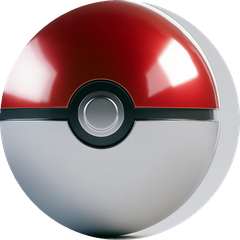
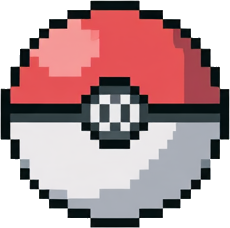
feat: Sieger-Screen (10 Pokémon tanzen aus Ball -> Solitär-Feuerwerk -> Pokal + Neues-Spiel-Button); neuer Pokéball- + Pokal-Sprite

diff --git a/js/win.js b/js/win.js
@@ -1,0 +1,168 @@
+import { VIRTUAL_W } from "./config.js";
+import { getImg, getSprite } from "./sprites.js";
+import { POKEMON } from "./data.js";
+
+const S = VIRTUAL_W;
+// Zeitachse (Sekunden)
+const T_POP = 0.6;        // Ball wächst/wackelt in der Mitte
+const T_DANCE_END = 3.4;  // 10 Pokémon kommen raus + tanzen
+const T_PARTY_END = 7.6;  // Feuerwerk rastet aus (Solitär-Kaskade)
+const CX = S / 2, CY = 0.42 * S, RING = 0.30 * S;
+const BTN = { x: S / 2 - 0.16 * S, y: 0.74 * S, w: 0.32 * S, h: 0.13 * S };
+
+export function makeWinScreen({ ctx, audio, onNewGame }) {
+  let t = 0, spawnAcc = 0, soundAcc = 0, popped = false;
+  let particles = [], confetti = [];
+  let partyStarted = false, done = false;
+
+  function start() {
+    t = 0; spawnAcc = 0; soundAcc = 0; popped = false;
+    particles = []; confetti = []; partyStarted = false; done = false;
+    audio.play("caught");
+    for (let i = 0; i < 60; i++) confetti.push(newConfetti());
+  }
+  function newConfetti() {
+    return { x: Math.random() * S, y: Math.random() * -S, vy: 120 + Math.random() * 200,
+             vx: (Math.random() - 0.5) * 60, hue: Math.floor(Math.random() * 360), r: 5 + Math.random() * 6 };
+  }
+  function burst(x, y, n, up) {
+    for (let i = 0; i < n; i++) {
+      const a = up ? (-Math.PI / 2 + (Math.random() - 0.5) * 1.8) : (Math.random() * Math.PI * 2);
+      const sp = 220 + Math.random() * 560;
+      particles.push({ x, y, vx: Math.cos(a) * sp, vy: Math.sin(a) * sp,
+        hue: Math.floor(Math.random() * 360), r: 5 + Math.random() * 8, life: 1 });
+    }
+  }
+
+  function phase() {
+    if (done) return "trophy";
+    if (t < T_POP) return "pop";
+    if (t < T_DANCE_END) return "dance";
+    if (t < T_PARTY_END) return "party";
+    return "trophy";
+  }
+
+  function update(dt) {
+    t += dt;
+    const ph = phase();
+    if (ph === "pop" && !popped && t > T_POP * 0.5) { popped = true; audio.play("throw"); }
+    if (ph === "dance") {
+      for (const c of confetti) {
+        c.x += c.vx * dt; c.y += c.vy * dt;
+        if (c.y > S) Object.assign(c, newConfetti(), { y: -10 });
+      }
+    }
+    if (ph === "party") {
+      spawnAcc += dt; soundAcc += dt;
+      while (spawnAcc > 0.10) {
+        spawnAcc -= 0.10;
+        burst(0.12 * S + Math.random() * 0.76 * S, S * 0.98, 12, true);
+        if (Math.random() < 0.7) burst(Math.random() * S, (0.2 + Math.random() * 0.5) * S, 10, false);
+      }
+      if (soundAcc > 0.45) { soundAcc = 0; audio.play("throw"); }
+      for (const p of particles) {
+        p.x += p.vx * dt; p.y += p.vy * dt; p.vy += 1000 * dt;
+        if (p.y > S) { p.y = S; p.vy *= -0.6; p.vx *= 0.72; }
+        p.life -= dt * 0.14;
+      }
+      particles = particles.filter(p => p.life > 0 && p.x > -30 && p.x < S + 30);
+    }
+  }
+
+  function ringRadius() {
+    // Pokémon fliegen aus dem Ball: Radius wächst kurz nach dem Pop
+    const k = Math.max(0, Math.min(1, (t - T_POP) / 0.5));
+    return RING * k;
+  }
+
+  function drawPokemonRing() {
+    const R = ringRadius();
+    for (let i = 0; i < POKEMON.length; i++) {
+      const ang = i / POKEMON.length * Math.PI * 2 + t * 0.5;
+      const x = CX + Math.cos(ang) * R;
+      const y = CY + Math.sin(ang) * R * 0.8;
+      const hop = -Math.abs(Math.sin(t * 5 + i)) * 0.035 * S;
+      const spr = getSprite(POKEMON[i].id);
+      const h = 0.13 * S, ar = spr.width && spr.height ? spr.width / spr.height : 1;
+      ctx.save();
+      ctx.translate(x, y + hop);
+      ctx.rotate(Math.sin(t * 4 + i) * 0.12);
+      ctx.drawImage(spr, -h * ar / 2, -h, h * ar, h);
+      ctx.restore();
+    }
+  }
+
+  function drawRestart(cx, cy, r, lw) {
+    ctx.strokeStyle = "#fff"; ctx.lineWidth = lw; ctx.lineCap = "round";
+    ctx.beginPath(); ctx.arc(cx, cy, r, Math.PI * 0.5, Math.PI * 2.1); ctx.stroke();
+    ctx.fillStyle = "#fff";
+    ctx.beginPath();
+    ctx.moveTo(cx + r, cy - r * 0.75); ctx.lineTo(cx + r * 1.5, cy - r * 0.1); ctx.lineTo(cx + r * 0.5, cy - r * 0.1);
+    ctx.closePath(); ctx.fill();
+  }
+
+  function draw() {
+    const ph = phase();
+    if (ph === "pop" || ph === "dance") {
+      ctx.fillStyle = "#0e0e18"; ctx.fillRect(0, 0, S, S);
+      // Konfetti
+      for (const c of confetti) {
+        ctx.fillStyle = `hsl(${c.hue},90%,60%)`;
+        ctx.beginPath(); ctx.arc(c.x, c.y, c.r, 0, Math.PI * 2); ctx.fill();
+      }
+      // Ball in der Mitte (öffnet sich)
+      const ball = getImg("ball");
+      if (ph === "pop" && ball) {
+        const gr = 0.16 * S * Math.min(1, t / T_POP);
+        const shake = Math.sin(t * 40) * 6;
+        ctx.drawImage(ball, CX - gr + shake, CY - gr, gr * 2, gr * 2);
+      } else if (ringRadius() < RING * 0.3 && ball) {
+        const fade = 1 - ringRadius() / (RING * 0.3);
+        ctx.globalAlpha = fade; const gr = 0.16 * S;
+        ctx.drawImage(ball, CX - gr, CY - gr, gr * 2, gr * 2); ctx.globalAlpha = 1;
+      }
+      if (ph === "dance") drawPokemonRing();
+      partyStarted = false;
+      return;
+    }
+    if (ph === "party") {
+      if (!partyStarted) { ctx.fillStyle = "#0e0e18"; ctx.fillRect(0, 0, S, S); partyStarted = true; }
+      ctx.fillStyle = "rgba(14,14,24,0.09)"; ctx.fillRect(0, 0, S, S); // Schweife bleiben
+      for (const p of particles) {
+        ctx.globalAlpha = Math.max(0, Math.min(1, p.life));
+        ctx.fillStyle = `hsl(${p.hue},100%,60%)`;
+        ctx.beginPath(); ctx.arc(p.x, p.y, p.r, 0, Math.PI * 2); ctx.fill();
+      }
+      ctx.globalAlpha = 1;
+      return;
+    }
+    // Trophäen-Screen
+    ctx.fillStyle = "#141426"; ctx.fillRect(0, 0, S, S);
+    ctx.save(); ctx.globalAlpha = 0.22;
+    for (let i = 0; i < 12; i++) {
+      ctx.strokeStyle = `hsl(${(i * 30 + t * 40) % 360},100%,60%)`;
+      ctx.lineWidth = 8;
+      const a = i / 12 * Math.PI * 2 + t * 0.3;
+      ctx.beginPath(); ctx.moveTo(S / 2, 0.34 * S);
+      ctx.lineTo(S / 2 + Math.cos(a) * S, 0.34 * S + Math.sin(a) * S); ctx.stroke();
+    }
+    ctx.restore();
+    const pk = getImg("pokal");
+    if (pk) {
+      const h = 0.44 * S, ar = pk.width / pk.height, bob = Math.sin(t * 2) * 0.01 * S;
+      ctx.save(); ctx.shadowColor = "rgba(255,220,80,0.95)"; ctx.shadowBlur = 70;
+      ctx.drawImage(pk, S / 2 - h * ar / 2, 0.14 * S + bob, h * ar, h);
+      ctx.restore();
+    }
+    ctx.fillStyle = "#2b8a3e"; ctx.strokeStyle = "#0d3"; ctx.lineWidth = 5;
+    ctx.beginPath(); ctx.roundRect(BTN.x, BTN.y, BTN.w, BTN.h, BTN.h * 0.3); ctx.fill(); ctx.stroke();
+    drawRestart(BTN.x + BTN.w / 2, BTN.y + BTN.h / 2, BTN.h * 0.3, BTN.h * 0.1);
+  }
+
+  function onTap(x, y) {
+    if (phase() !== "trophy") { done = true; return; } // überspringen
+    if (x >= BTN.x && x <= BTN.x + BTN.w && y >= BTN.y && y <= BTN.y + BTN.h) onNewGame();
+  }
+
+  return { start, update, draw, onTap };
+}

diff --git a/js/main.js b/js/main.js
@@ -5,6 +5,7 @@ import { loadAssets } from "./sprites.js";
 import { makeWorld } from "./world.js";
 import { makeCatchScreen } from "./catchscreen.js";
 import { makeHouseScreen } from "./housescreen.js";
+import { makeWinScreen } from "./win.js";
 
 const S = VIRTUAL_W;
 const canvas = document.getElementById("game");
@@ -28,8 +29,8 @@ const catchScreen = makeCatchScreen({
   ctx, audio,
   onResult: ({ id, caught }) => {
     if (id === BOSS_ID) {
-      if (caught) storage.setWon(true);
-      else storage.penaltyAll();
+      if (caught) { storage.setWon(true); win.start(); screen = "win"; return; }
+      storage.penaltyAll();
     } else if (caught) {
       storage.addCatch(id);
     }
@@ -40,6 +41,10 @@ const catchScreen = makeCatchScreen({
 const house = makeHouseScreen({
   ctx, storage,
   onExit: () => { world.exitHouse(); screen = "world"; },
+});
+const win = makeWinScreen({
+  ctx, audio,
+  onNewGame: () => { storage.reset(); world.reset(); screen = "world"; },
 });
 
 function toVirtual(ev) {
@@ -61,6 +66,7 @@ function handleTap(ev) {
     else if (inRect(x, y, NO)) { confirmReset = false; }
     return;
   }
+  if (screen === "win") { win.onTap(x, y); return; }
   if (inRect(x, y, SND)) { audio.toggle(); return; }
   if (inRect(x, y, NEW)) { confirmReset = true; return; }
   if (screen === "world") world.onPointer(x, y);
@@ -131,6 +137,11 @@ function drawConfirm() {
 let last = performance.now();
 function loop(now) {
   const dt = Math.min(0.05, (now - last) / 1000); last = now;
+  if (screen === "win") {
+    win.update(dt); win.draw();
+    requestAnimationFrame(loop); // Sieger-Screen: keine Ecken-Buttons
+    return;
+  }
   if (!confirmReset) {
     if (screen === "world") { world.update(dt); world.draw(); }
     else if (screen === "catch") { catchScreen.update(dt); catchScreen.draw(); }

diff --git a/js/sprites.js b/js/sprites.js
@@ -37,6 +37,7 @@ const MANIFEST = [
   ["house", "assets/house.png"],
   ["catchbg", "assets/catchbg.png"],
   ["ball", "assets/ball.png"],
+  ["pokal", "assets/pokal.png"],
   ["p_up_0", "assets/player/0_0.png"],
   ["p_up_1", "assets/player/0_1.png"],
   ["p_left_0", "assets/player/1_0.png"],

diff --git a/tools/process_assets.py b/tools/process_assets.py
@@ -47,51 +47,44 @@ fb = fit(fb, 900)
 fb.save(os.path.join(OUT, "catchbg.png"))
 print("catchbg", fb.size)
 
-# Pokeball freistellen: grauen Hintergrund per Flood-Fill von den Ecken entfernen,
-# danach kreisförmig maskieren (Schatten weg), zuschneiden.
-def cutout_ball(im, tol=42):
-    im = im.convert("RGBA")
-    px = im.load()
-    w, h = im.size
+# Flood-Fill von den Ecken (entfernt nur den ZUSAMMENHÄNGENDEN Außen-Hintergrund;
+# eingeschlossene helle Flächen bleiben -> gut für den Ball auf Weiß)
+def cutout_flood(im, tol=40):
+    im = im.convert("RGBA"); px = im.load(); w, h = im.size
     from collections import deque
-    seen = [[False] * w for _ in range(h)]
-    q = deque()
-    corners = [(0, 0), (w - 1, 0), (0, h - 1), (w - 1, h - 1)]
+    seen = [[False] * w for _ in range(h)]; q = deque()
     bg = px[0, 0]
-    for cx, cy in corners:
-        if not seen[cy][cx]:
-            q.append((cx, cy)); seen[cy][cx] = True
-    def close(a, b):
-        return abs(a[0]-b[0]) < tol and abs(a[1]-b[1]) < tol and abs(a[2]-b[2]) < tol
+    for cx, cy in [(0, 0), (w-1, 0), (0, h-1), (w-1, h-1)]:
+        if not seen[cy][cx]: q.append((cx, cy)); seen[cy][cx] = True
+    def close(a, b): return abs(a[0]-b[0]) < tol and abs(a[1]-b[1]) < tol and abs(a[2]-b[2]) < tol
     while q:
-        x, y = q.popleft()
-        r, g, b, a = px[x, y]
-        if not close((r, g, b), bg):
-            continue
+        x, y = q.popleft(); r, g, b, a = px[x, y]
+        if not close((r, g, b), bg): continue
         px[x, y] = (r, g, b, 0)
         for nx, ny in ((x+1, y), (x-1, y), (x, y+1), (x, y-1)):
             if 0 <= nx < w and 0 <= ny < h and not seen[ny][nx]:
                 seen[ny][nx] = True; q.append((nx, ny))
-    # roten Ball-Bereich finden -> Zentrum/Radius für Kreismaske
-    xs, ys = [], []
-    for y in range(0, h, 3):
-        for x in range(0, w, 3):
-            r, g, b, a = px[x, y]
-            if a and r > 120 and r > g + 40 and r > b + 40:
-                xs.append(x); ys.append(y)
-    cx = sum(xs) / len(xs); top = min(ys)
-    left = min(xs); right = max(xs)
-    rad = max((right - left) / 2, (sum(ys)/len(ys) - top)) + 6
-    cy = top + rad
-    mask = Image.new("L", (w, h), 0)
-    from PIL import ImageDraw
-    ImageDraw.Draw(mask).ellipse((cx - rad, cy - rad, cx + rad, cy + rad), fill=255)
-    im.putalpha(mask)
     return trim(im)
 
-ball = cutout_ball(Image.open(os.path.join(SRC, "Pokeball.png")))
-ball = fit(ball, 240)
+# Farb-Key: ALLE Pixel nahe der Ecken-Farbe transparent (auch eingeschlossene) ->
+# gut für den Pokal auf Blau (Pokal selbst ist silber/weiß, kein Blau)
+def cutout_key(im, tol=60):
+    im = im.convert("RGBA"); px = im.load(); w, h = im.size
+    bg = px[0, 0]
+    for y in range(h):
+        for x in range(w):
+            r, g, b, a = px[x, y]
+            if abs(r-bg[0]) < tol and abs(g-bg[1]) < tol and abs(b-bg[2]) < tol:
+                px[x, y] = (r, g, b, 0)
+    return trim(im)
+
+ball = fit(cutout_flood(Image.open(os.path.join(SRC, "Pokeball.png"))), 240)
 ball.save(os.path.join(OUT, "ball.png"))
+print("ball", ball.size)
+
+pokal = fit(cutout_key(Image.open(os.path.join(SRC, "Pokal.png"))), 520)
+pokal.save(os.path.join(OUT, "pokal.png"))
+print("pokal", pokal.size)
 print("ball", ball.size)
 
 # Lukas (11. Pokémon): weißen Hintergrund per Flood-Fill freistellen
